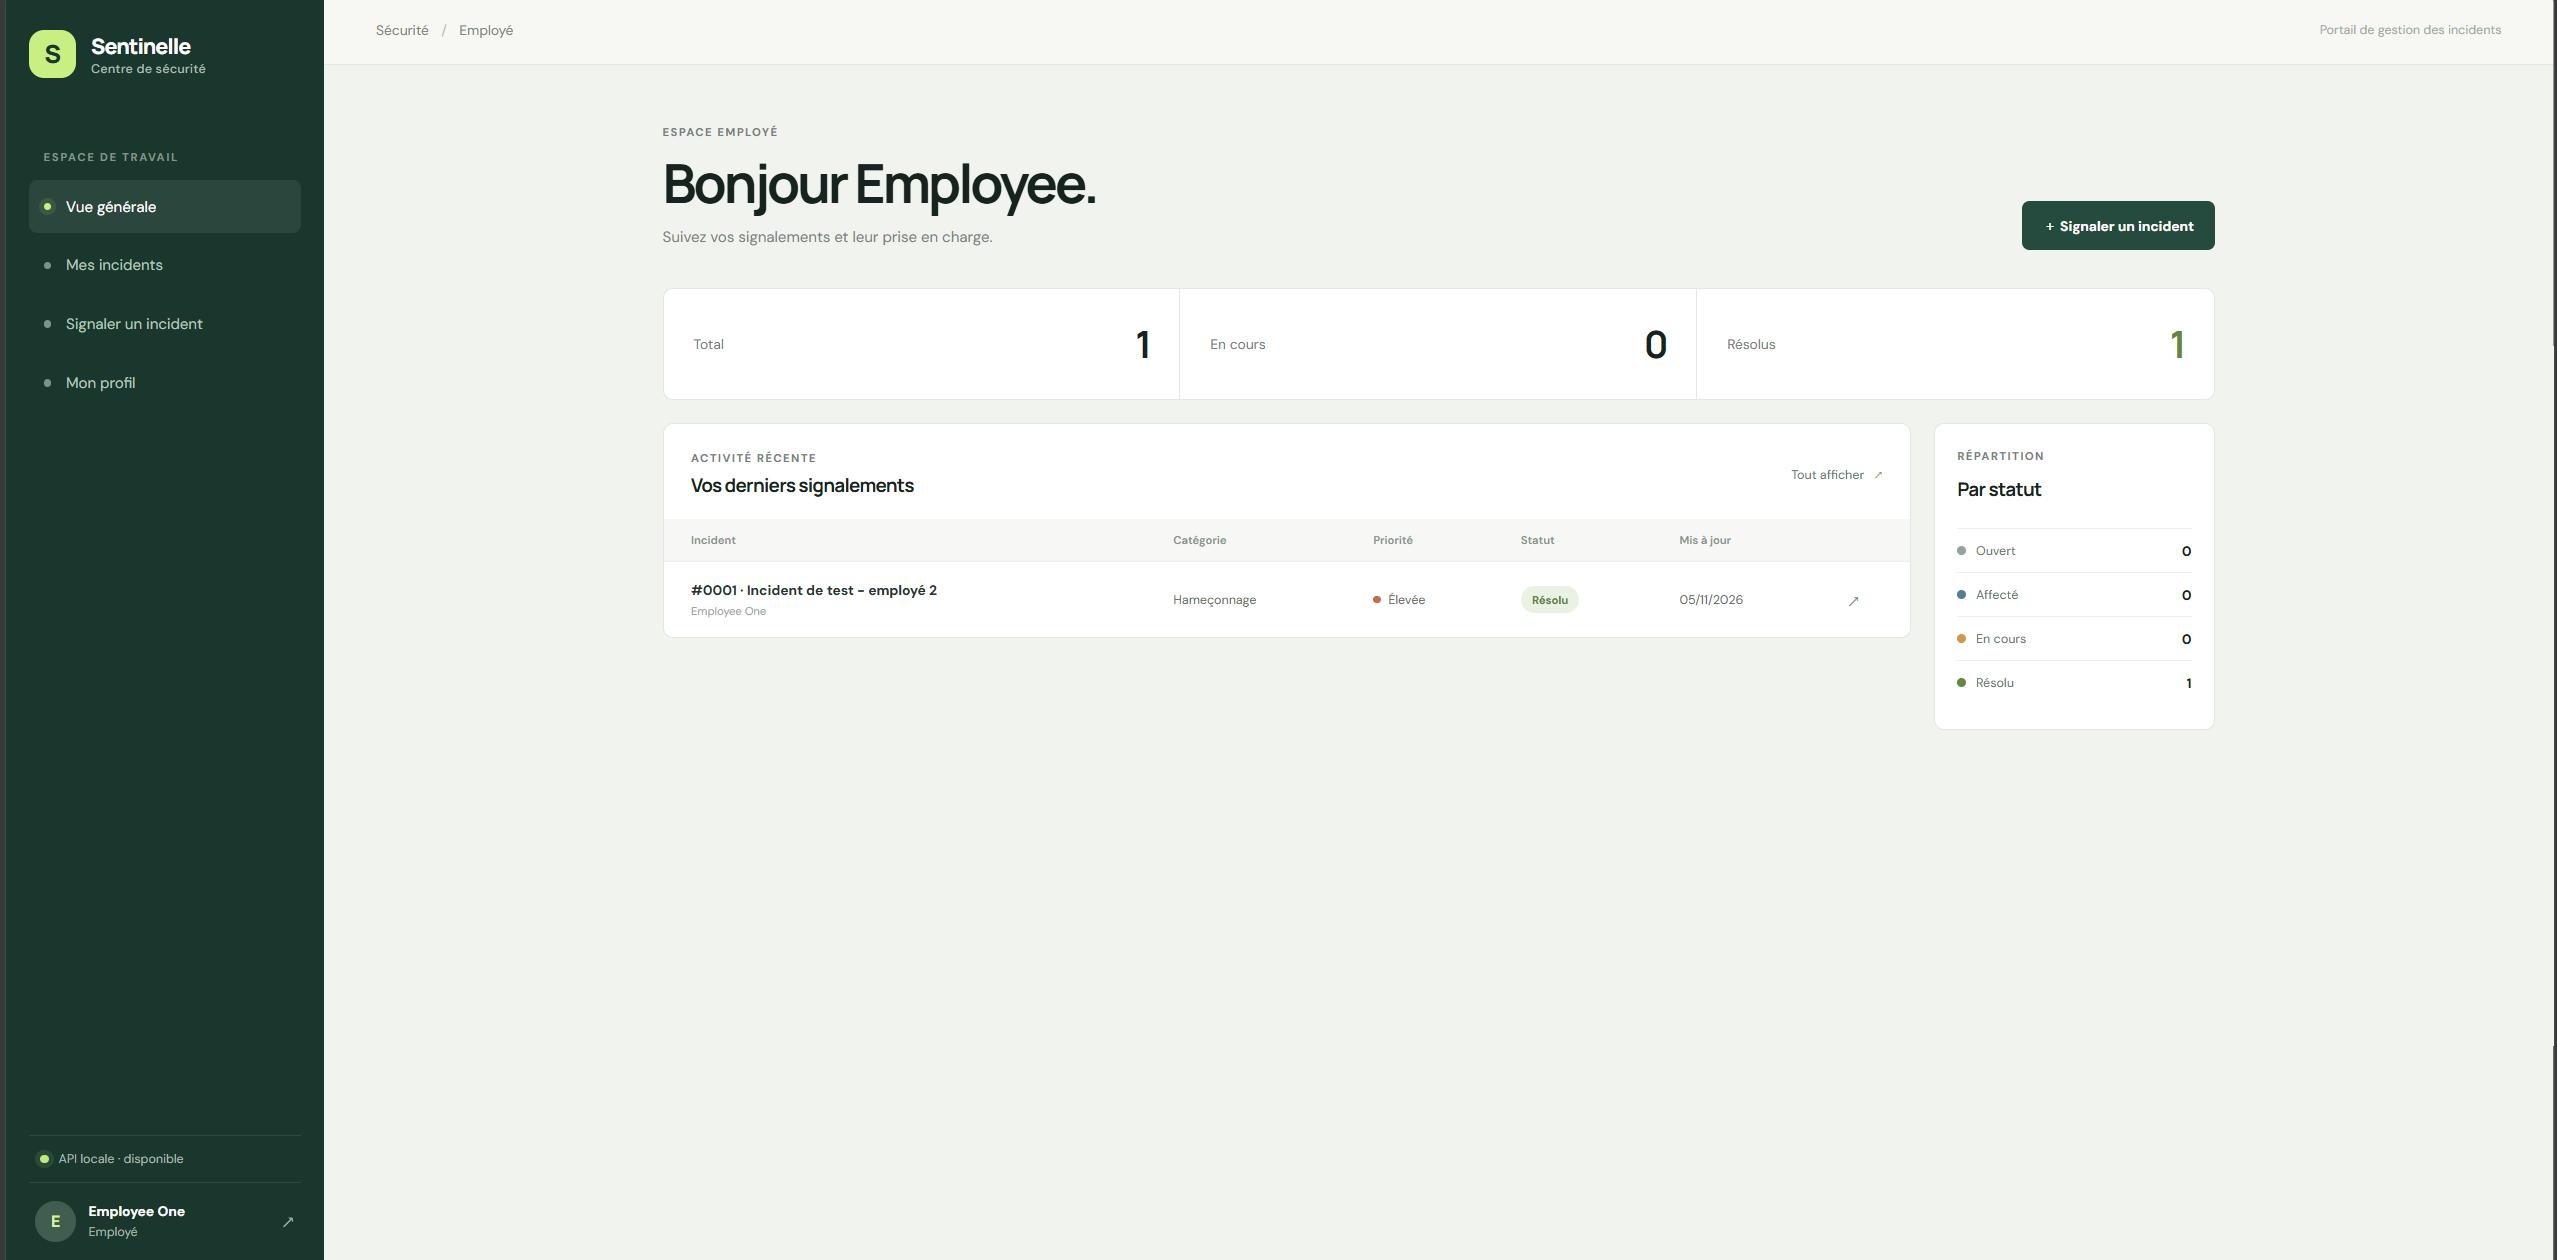
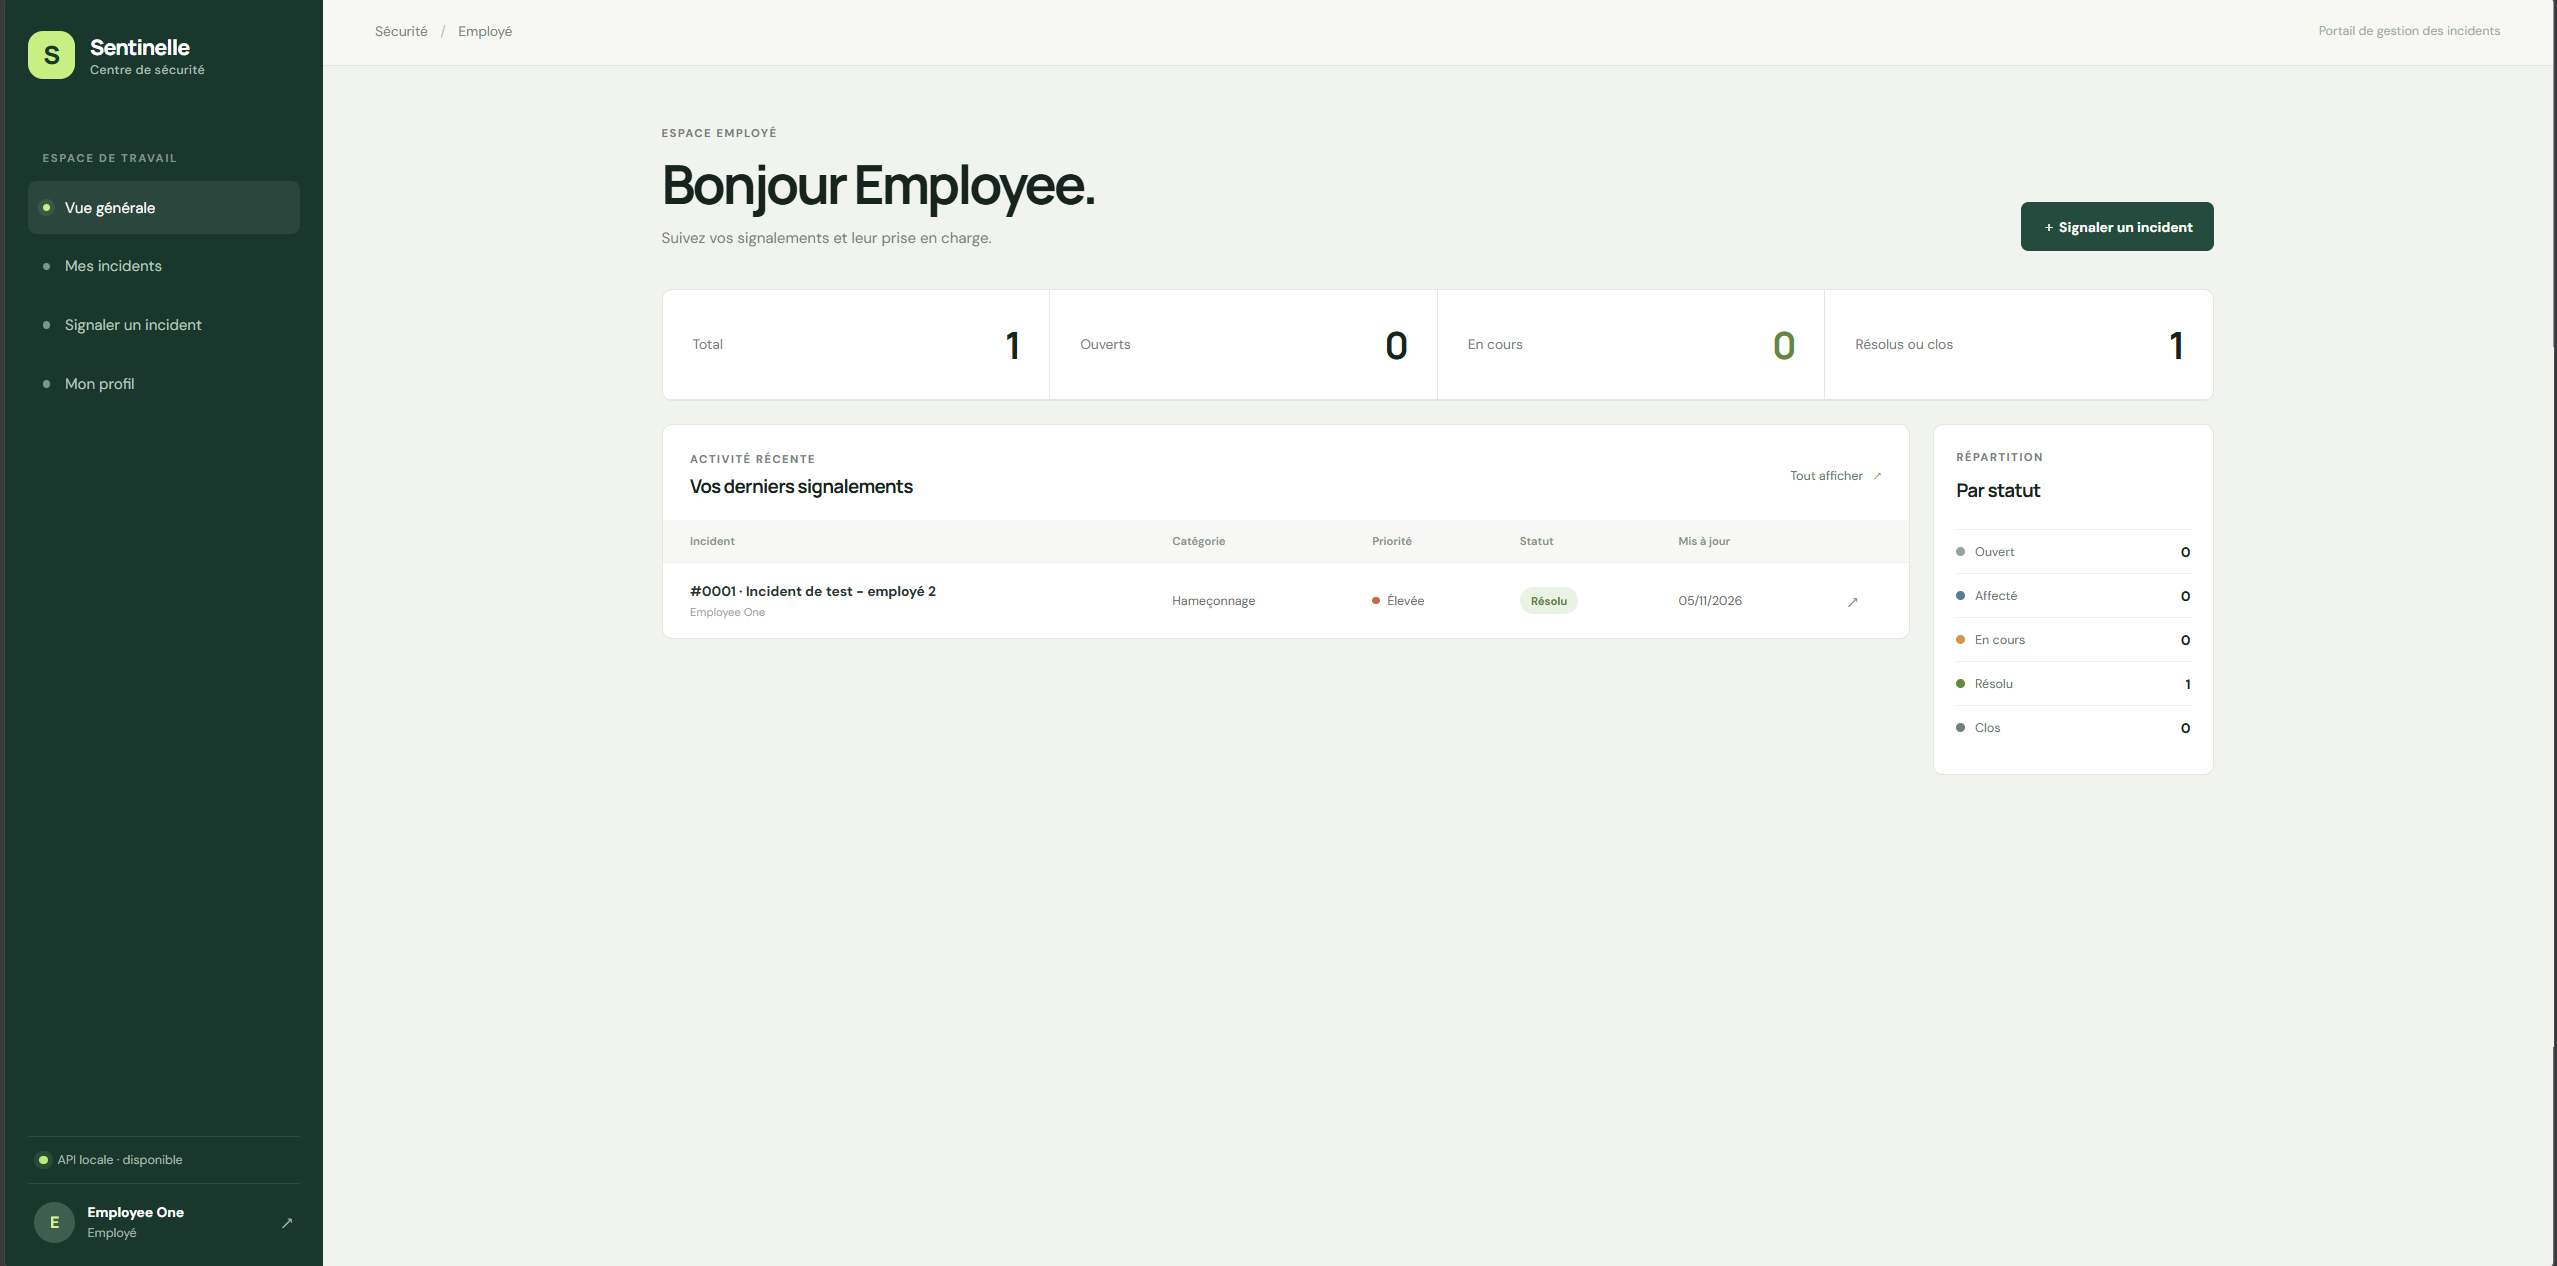
feat: complete role dashboard statistics

diff --git a/frontend/src/pages/Pages.jsx b/frontend/src/pages/Pages.jsx
@@ -41,11 +41,11 @@ export function RegisterPage() {
 }
 
 export function DashboardPage() {
-  const { auth } = useAuth(); const [incidents, setIncidents] = useState([]); const [stats, setStats] = useState(null); const [error, setError] = useState(null); const [loading, setLoading] = useState(true);
-  useEffect(() => { let alive = true; async function load() { try { if (auth.role === 'ADMIN') { const [s, list] = await Promise.all([api.get('/api/admin/statistics'), api.get('/api/incidents')]); if (alive) { setStats(s.data); setIncidents(list.data); } } else { const { data } = await api.get(auth.role === 'TECHNICIAN' ? '/api/incidents/assigned' : '/api/incidents/my'); if (alive) setIncidents(data); } } catch (e) { if (alive) setError(e); } finally { if (alive) setLoading(false); } } load(); return () => { alive = false; }; }, [auth.role]);
+  const { auth } = useAuth(); const [incidents, setIncidents] = useState([]); const [stats, setStats] = useState(null); const [users, setUsers] = useState([]); const [error, setError] = useState(null); const [loading, setLoading] = useState(true);
+  useEffect(() => { let alive = true; async function load() { try { if (auth.role === 'ADMIN') { const [s, list, accounts] = await Promise.all([api.get('/api/admin/statistics'), api.get('/api/incidents'), api.get('/api/admin/users')]); if (alive) { setStats(s.data); setIncidents(list.data); setUsers(accounts.data); } } else { const { data } = await api.get(auth.role === 'TECHNICIAN' ? '/api/incidents/assigned' : '/api/incidents/my'); if (alive) setIncidents(data); } } catch (e) { if (alive) setError(e); } finally { if (alive) setLoading(false); } } load(); return () => { alive = false; }; }, [auth.role]);
   const counts = useMemo(() => Object.fromEntries(statuses.map(s => [s, incidents.filter(i => i.status === s).length])), [incidents]);
   const label = auth.role === 'ADMIN' ? 'Vue administrateur' : auth.role === 'TECHNICIAN' ? 'Espace technicien' : 'Espace employé';
-  return <><PageHeading eyebrow={label} title={auth.role === 'ADMIN' ? 'Vue d’ensemble' : `Bonjour ${auth.fullName?.split(' ')[0] || ''}.`} description={auth.role === 'ADMIN' ? 'La situation des incidents et des équipes en un regard.' : auth.role === 'TECHNICIAN' ? 'Voici les incidents qui vous sont confiés.' : 'Suivez vos signalements et leur prise en charge.'} action={auth.role === 'EMPLOYEE' && <Link className="button primary" to="/incidents/new">＋ Signaler un incident</Link>} /><ErrorNotice error={error} />{loading ? <Loading /> : <><section className="stat-strip">{(auth.role === 'ADMIN' ? [['Incidents', stats?.totalIncidents ?? 0], ['Utilisateurs', stats?.totalUsers ?? 0], ['À traiter', (stats?.incidentsByStatus?.OPEN || 0) + (stats?.incidentsByStatus?.ASSIGNED || 0)]] : [['Total', incidents.length], ['En cours', counts.IN_PROGRESS + counts.ASSIGNED], ['Résolus', counts.RESOLVED + counts.CLOSED]]).map(([name, number], i) => <div className={`stat-cell stat-cell-${i}`} key={name}><span>{name}</span><strong>{number}</strong></div>)}</section><section className="dashboard-lower"><div className="content-panel"><div className="panel-heading"><div><p className="section-kicker">Activité récente</p><h2>{auth.role === 'ADMIN' ? 'Incidents de l’organisation' : auth.role === 'TECHNICIAN' ? 'Vos incidents assignés' : 'Vos derniers signalements'}</h2></div><Link className="quiet-link" to={auth.role === 'ADMIN' ? '/admin/incidents' : auth.role === 'TECHNICIAN' ? '/incidents/assigned' : '/incidents/my'}>Tout afficher <span>↗</span></Link></div><IncidentRows incidents={incidents.slice(0, 6)} emptyText="Aucun incident pour le moment." /></div><aside className="status-overview"><p className="section-kicker">Répartition</p><h2>Par statut</h2>{statuses.slice(0, 4).map(status => <div className="status-count" key={status}><span className={`status-key key-${status.toLowerCase()}`} />{statusNames[status]}<strong>{auth.role === 'ADMIN' ? stats?.incidentsByStatus?.[status] ?? 0 : counts[status]}</strong></div>)}</aside></section></>}</>;
+  return <><PageHeading eyebrow={label} title={auth.role === 'ADMIN' ? 'Vue d’ensemble' : `Bonjour ${auth.fullName?.split(' ')[0] || ''}.`} description={auth.role === 'ADMIN' ? 'La situation des incidents et des équipes en un regard.' : auth.role === 'TECHNICIAN' ? 'Voici les incidents qui vous sont confiés.' : 'Suivez vos signalements et leur prise en charge.'} action={auth.role === 'EMPLOYEE' && <Link className="button primary" to="/incidents/new">＋ Signaler un incident</Link>} /><ErrorNotice error={error} />{loading ? <Loading /> : <><section className="stat-strip">{(auth.role === 'ADMIN' ? [['Utilisateurs', stats?.totalUsers ?? 0], ['Employés', users.filter(u => u.role === 'EMPLOYEE').length], ['Techniciens', users.filter(u => u.role === 'TECHNICIAN').length], ['Incidents', stats?.totalIncidents ?? 0], ['Ouverts', stats?.incidentsByStatus?.OPEN ?? 0], ['En cours', stats?.incidentsByStatus?.IN_PROGRESS ?? 0], ['Clos', stats?.incidentsByStatus?.CLOSED ?? 0]] : auth.role === 'TECHNICIAN' ? [['Affectés', incidents.length], ['Critiques', incidents.filter(i => i.priority === 'CRITICAL').length], ['En cours', counts.IN_PROGRESS], ['Résolus', counts.RESOLVED + counts.CLOSED]] : [['Total', incidents.length], ['Ouverts', counts.OPEN], ['En cours', counts.IN_PROGRESS], ['Résolus ou clos', counts.RESOLVED + counts.CLOSED]]).map(([name, number], i) => <div className={`stat-cell stat-cell-${i}`} key={name}><span>{name}</span><strong>{number}</strong></div>)}</section><section className="dashboard-lower"><div className="content-panel"><div className="panel-heading"><div><p className="section-kicker">Activité récente</p><h2>{auth.role === 'ADMIN' ? 'Incidents de l’organisation' : auth.role === 'TECHNICIAN' ? 'Vos incidents assignés' : 'Vos derniers signalements'}</h2></div><Link className="quiet-link" to={auth.role === 'ADMIN' ? '/admin/incidents' : auth.role === 'TECHNICIAN' ? '/incidents/assigned' : '/incidents/my'}>Tout afficher <span>↗</span></Link></div><IncidentRows incidents={incidents.slice(0, 6)} emptyText="Aucun incident pour le moment." /></div><aside className="status-overview"><p className="section-kicker">Répartition</p><h2>Par statut</h2>{statuses.map(status => <div className="status-count" key={status}><span className={`status-key key-${status.toLowerCase()}`} />{statusNames[status]}<strong>{auth.role === 'ADMIN' ? stats?.incidentsByStatus?.[status] ?? 0 : counts[status]}</strong></div>)}</aside></section></>}</>;
 }
 
 export function IncidentListPage({ mode = 'my' }) {

diff --git a/frontend/src/style.css b/frontend/src/style.css
@@ -3,3 +3,7 @@
 @media(max-width:1020px){.sidebar{width:218px}.main-area{margin-left:218px}.page-wrap{padding:38px 27px}.topbar{padding:0 27px}.dashboard-lower{grid-template-columns:1fr}.status-overview{display:grid;grid-template-columns:repeat(4,1fr);gap:0 12px}.status-overview .section-kicker,.status-overview h2{grid-column:1/-1}.status-overview h2{margin-bottom:10px}.status-count{border-top:1px solid #edf0eb}.detail-grid{grid-template-columns:minmax(0,1fr) 250px}}
 @media(max-width:720px){.sidebar{position:static;width:auto;height:auto;padding:13px 16px;display:grid;grid-template-columns:auto 1fr;align-items:center}.brand{font-size:15px}.brand-mark{width:33px;height:33px}.side-caption,.sidebar-bottom{display:none}.side-nav{display:flex;justify-content:flex-end;gap:2px;overflow:auto}.nav-link{width:36px;height:36px;justify-content:center;padding:0;font-size:0}.nav-dot{width:7px;height:7px}.nav-link.active{background:#ffffff18}.main-area{margin:0}.topbar{height:42px;padding:0 18px}.topbar-date{display:none}.page-wrap{padding:29px 17px 50px}.page-heading{align-items:flex-start;flex-direction:column;margin-bottom:22px;gap:15px}.page-heading h1{font-size:32px}.page-description{font-size:11px}.stat-cell{padding:15px;min-height:72px;display:grid;gap:5px}.stat-cell strong{font-size:24px}.stat-cell span{font-size:9px}.dashboard-lower{gap:12px}.panel-heading{padding:17px 15px 13px}.panel-heading h2{font-size:13px}.quiet-link{font-size:9px}.table-scroll table{min-width:650px}.status-overview{grid-template-columns:repeat(2,1fr);padding:16px}.detail-grid{grid-template-columns:1fr}.detail-side{grid-template-columns:1fr}.detail-back{font-size:9px}.editor-form{padding:17px}.form-row{grid-template-columns:1fr}.auth-screen{grid-template-columns:1fr;min-height:100vh}.auth-story{min-height:195px;padding:20px 22px}.story-copy{margin:29px 0 5px}.story-copy p{max-width:550px;font-size:20px}.story-rule{margin-bottom:12px}.story-foot{margin-top:13px}.story-orbit{width:250px;height:250px;right:-100px;top:0}.orbit-two{width:170px;height:170px;right:-60px;top:15%}.auth-panel{padding:34px 22px;align-items:start}.auth-form-wrap h1{font-size:32px}.auth-legal{margin-top:24px}.auth-screen:has(.form-stack label:nth-child(3)) .auth-story{min-height:205px}}
 @media(prefers-reduced-motion:reduce){*,*::before,*::after{animation-duration:.01ms!important;animation-iteration-count:1!important;scroll-behavior:auto!important;transition-duration:.01ms!important}}
+
+.stat-strip { grid-template-columns: repeat(auto-fit, minmax(150px, 1fr)); }
+.stat-cell { border-bottom: 1px solid var(--line); }
+

diff --git a/README.md b/README.md
@@ -342,3 +342,13 @@ Pour vérifier l’expiration JWT rapidement, démarrer temporairement le backen
 
 ![Tableau de bord employé](images/interface-dashboard-employe-actuel.png)
 
+
+### Tableau de bord technicien
+
+![Tableau de bord du technicien](images/interface-dashboard-technicien.png)
+
+
+### Tableau de bord administrateur
+
+![Tableau de bord de l’administrateur](images/interface-dashboard-administrateur.png)
+
